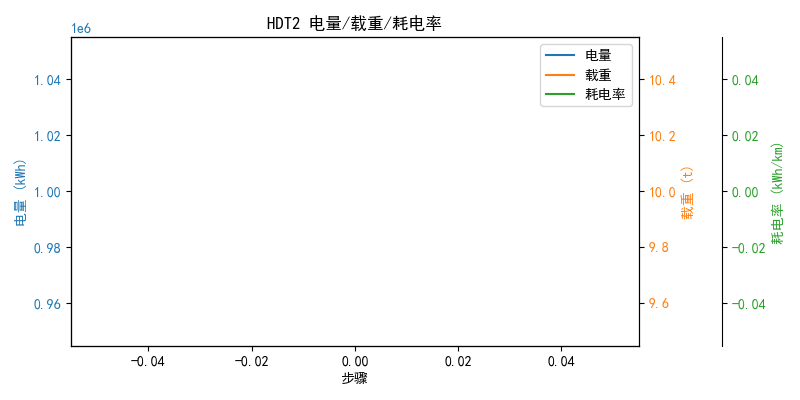
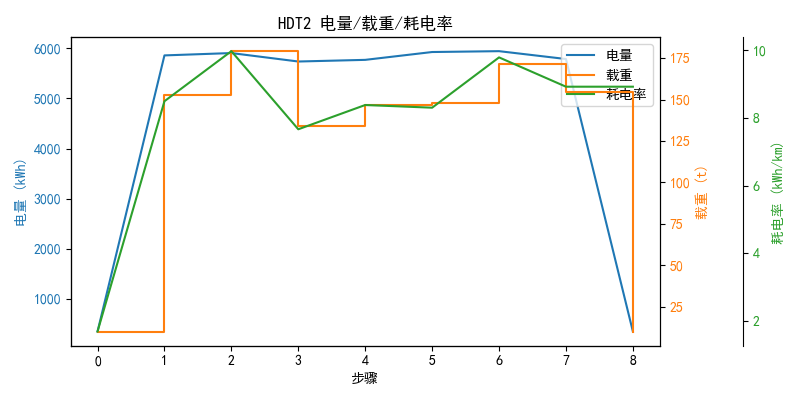
debug调试

diff --git a/HDT_Swapping_Optimization/src/common/config_final.py b/HDT_Swapping_Optimization/src/common/config_final.py
@@ -37,7 +37,7 @@ LINE_THERMAL_LIMIT_MVA = 2.0
 # --- HDT 物理参数 ---
 LOADING_UNLOADING_TIME_HOURS = 0.5
 SWAP_DURATION_HOURS = 0.25
-HDT_BATTERY_CAPACITY_KWH = 999999
+HDT_BATTERY_CAPACITY_KWH = 350
 HDT_MIN_SOC_KWH = HDT_BATTERY_CAPACITY_KWH * 0.15
 HDT_EMPTY_WEIGHT_TON = 10.0
 HDT_AVERAGE_SPEED_KMPH = 60.0
@@ -58,6 +58,6 @@ ROAD_NETWORK_INTERSECTIONS = 20
 ROAD_NETWORK_CONNECTIVITY = 4
 
 # --- 求解器与模型 ---
-SOLVER_NAME = 'gurobi'
-TIME_LIMIT_SECONDS = 600
+SOLVER_NAME = 'ipopt'
+# TIME_LIMIT_SECONDS = 600
 BIG_M = 10000

diff --git a/HDT_Swapping_Optimization/src/data_processing/loader_final.py b/HDT_Swapping_Optimization/src/data_processing/loader_final.py
@@ -41,7 +41,7 @@ def create_final_scenario():
         traffic_graph, list(key_locations.keys())
     )
     # 将整张路网距离缩小 10 倍，以保证行驶里程更合理
-    dist_matrix = dist_matrix / 5.0
+    dist_matrix = dist_matrix / 1.0
     # 假设平均速度受路况影响，降低20%
     time_df = dist_matrix / (config.HDT_AVERAGE_SPEED_KMPH * 0.8)
 

diff --git a/HDT_Swapping_Optimization/main_workflow_final.py b/HDT_Swapping_Optimization/main_workflow_final.py
@@ -34,7 +34,7 @@ def run_final_workflow():
     else:
         print(f"\n准备求解器: {solver_name}")
     solver = SolverFactory(solver_name)
-    solver.options['timelimit'] = config.TIME_LIMIT_SECONDS
+    # solver.options['timelimit'] = config.TIME_LIMIT_SECONDS
 
     print("开始求解...")
     results = solver.solve(model, tee=True)
